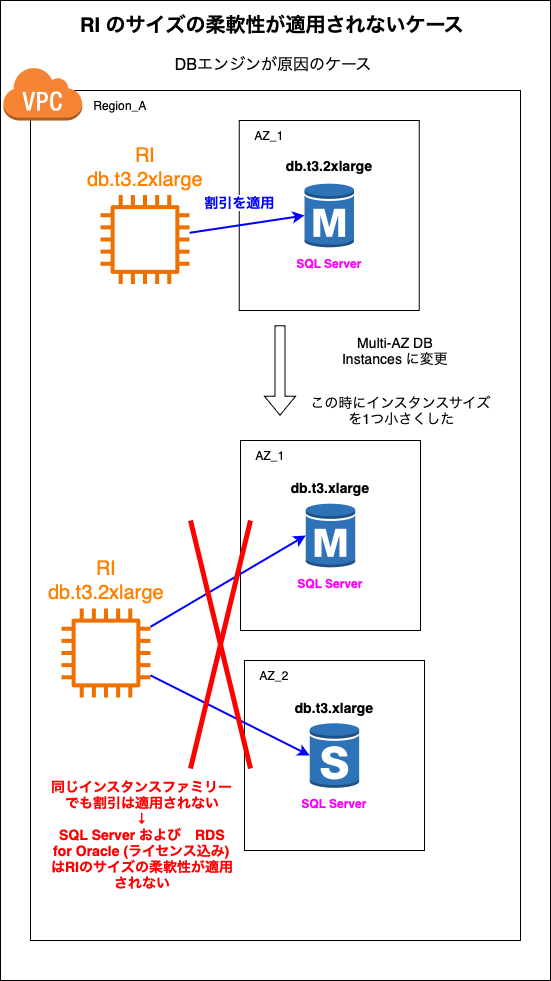
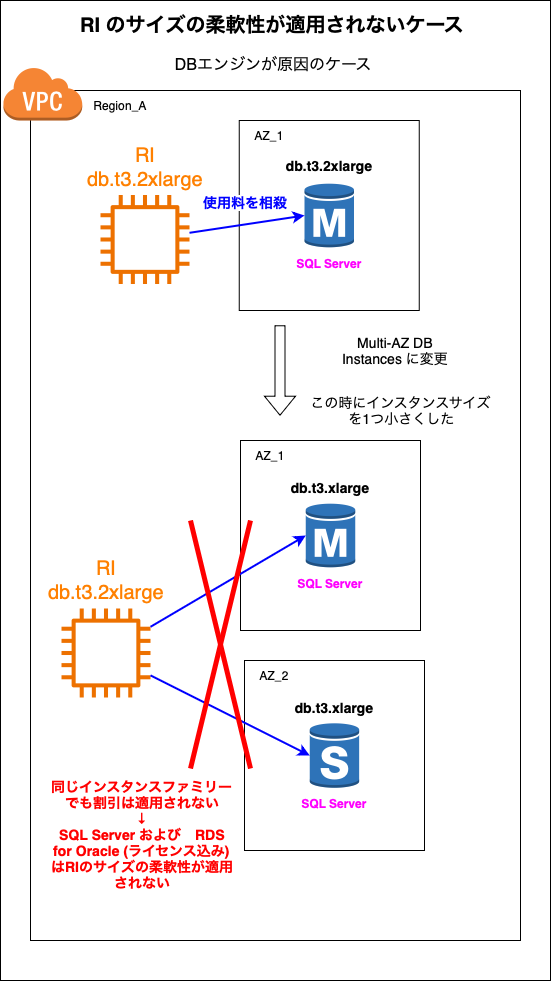
Add note about RI for Aurora RDS

diff --git a/RDS.md b/RDS.md
@@ -191,6 +191,7 @@ RDS インスタンス作成後にインスタンスが配置された AZ を確
 #### 非 Aurora RI
 
 - 指定する項目
+
     <img src="./img/RDS-RI_1.png" />
 
     - DBエンジン
@@ -224,14 +225,47 @@ RDS インスタンス作成後にインスタンスが配置された AZ を確
 
 <br>
 
+- ★ RDS の構成が [Multi-AZ DB Instances](#multi-az-db-instances) や [Multi-AZ DB Cluster](#multi-az-db-cluster) の場合はどのように RI を購入すれば良いか?
+
+    - 基本的にはどちらの構成でも、 RDS インスタンスの同じ数だけ シングル AZ RI を購入すれば良い
+
+    - マルチ AZ RI は 指定したインスタンスクラスを2つ (プライマリとスタンバイ分) 購入するオプションと思えば良い
+
+<br>
+
 - ★ 購入したRI の DB エンジンが 「RDS for SQL Server」 または 「RDS for Oracle ライセンス込み」 の場合は、**RI のサイズの柔軟性は提供されない**
 
-    → サイズの柔軟性とは、[EC2 のリージョンを指定して購入する RI](./EC2_RI.md#インスタンスサイズの柔軟性) と同様に、リージョンとインスタンスファミリーが同じであれば、購入済みの RI とは異なるサイズのインスタンスに割引が自動で適用される仕組み
+    → サイズの柔軟性とは、[EC2 のリージョンを指定して購入する RI](./EC2_RI.md#インスタンスサイズの柔軟性) と同様に、リージョンとインスタンスファミリーが同じであれば、購入済みの RI とは異なるサイズのインスタンスに割引が自動で適用される仕組み (**柔軟性は小さいインスタンスクラスのインスタンスから適用される**)
+    
+
+<br>
+
+#### Aurora RI
+
+- 基本的に非 Aurora RI と同じ指定項目、RIの柔軟性が提供される
+
+- ★ Serverless の RI は無い
+
+- ★ 料金体系によって購入するべき RI の数に違いが出る
+
+    - [Aurora I/O 最適化](./RDS_Aurora.md#2つの料金体系) の場合、インスタンス使用料が 1.3 倍に増加するので、購入する RI の数も1.3倍必要になる
+
+    - RI は少数を含んだ個数の購入 (0.5個や1.5個など) はできない 
+
+<br>
+
+#### 練習問題
+
+1. SQL Server インスタンスに対して RI の購入のケース
 
     ```
-    例: インスタンスタイプが db.t3.2xarge で シングル AZ の SQL Server の RI を購入。その後、SQL Server の RDS インスタンスをdb.t3.large でマルチ AZ 配置に変更した。
+    SQL Server RDS を db.t3.2xarge で作成し、インスタンスタイプが db.t3.2xarge で シングル AZ の SQL Server の RI を購入。その後、SQL Server の RDS インスタンスをdb.t3.large でマルチ AZ 配置に変更した。
+
+    ---------------------------
 
     Q: 変更後も RI の割引は適用されるか?
+
+    ---------------------------
 
     A: SQL Server の RI はサイズの柔軟性が無いため、SQL Server の RDS インスタンスサイズを変更すると、RI の割引は適用されなくなる
     ```
@@ -240,19 +274,153 @@ RDS インスタンス作成後にインスタンスが配置された AZ を確
 
 <br>
 
-#### Aurora RI
+2. Multi-AZ DB Instances 構成の MySQL インスタンスに対して RI の購入ケース
 
-- 基本的に非 Aurora RI と同じ指定項目、インスタンスサイズの柔軟性、AZの柔軟性が提供される
+    ```
+    MySQL RDS インスタンスを以下のマルチ DB インスタンス構成で作成した
+    - プライマリ: db.r3.large
+    - リードレプリカ: db.r3.large
 
-- ★ Serverless の RI は無い
+    ---------------------------
 
-- ★ 料金体系による RI の購入数の違い
+    Q: どのように RI を購入すれば良いか?
 
+    ---------------------------
+
+    A1: シングル AZ の db.r3.large RI を2つ購入する
+
+    ---------------------------
+
+    A2: マルチ AZ の db.r3.large RI を1つ購入する
+    ```
+
+    <img src="./img/RDS-RI_3.png" />
+
+<br>
+
+3. Multi-DB Cluster 構成の PostgreSQL  インスタンスに対しての RI の購入ケース
+
+    ```
+    MySQL RDS インスタンスを以下のマルチ DB クラスター構成で作成した
+    - プライマリ: db.r6g.4xlarge
+    - リードレプリカ1: db.r6g.4xlarge
+    - リードレプリカ2: db.r6g.4xlarge
+
+    ---------------------------
+
+    Q: どのように RI を購入すれば良いか?
+
+    ---------------------------
+
+    A1: シングル AZ の db.r6g.4xlarge RI を3つ購入する
+
+    ---------------------------
+
+    A2: マルチ AZ の db.r6g.4xlarge RI を1つ購入 & シングルAZ の db.r6g.4xlarge RI を1つ購入する
+    ```
+
+    <img src="./img/RDS-RI_4.png" />
+
+<br>
+
+4. Aurora Standard で作成した Aurora クラスターに対する RI の購入ケース
+
+    ```
+    Aurora MySQL クラスターを以下の構成で構成した
+    - プライマリ: db.r5.large
+    - リードレプリカ1: db.r5.large
+    - リードレプリカ2: db.r5.large
+
+    ---------------------------
+
+    Q: どのように RI を購入すれば良いか?
+
+    ---------------------------
+
+    A1: シングル AZ の db.r5.large RI を3つ購入する
+
+    ---------------------------
+
+    A2: マルチ AZ の db.r6g.4xlarge RI を1つ購入 & シングルAZ の db.r6g.4xlarge RI を1つ購入する
+    ```
+
+    <img src="./img/RDS-RI_5.png" />
+
+<br>
+
+5. Aurora I/O 最適化で作成した Aurora クラスターに対する RI の購入ケース1
+
+    
+    ```
+    Aurora I/O 最適化で Aurora PostgreSQL クラスターを以下の構成で構成した
+    - プライマリ: db.r6g.large
+    - 9台のリードレプリカ: db.r6g.large
+
+    ---------------------------
+
+    Q: どのように RI を購入すれば良いか?
+
+    ---------------------------
+
+    A1: シングルAZ の db.r6g.large RI を 10 * 1.3 = 13台購入する必要がある
+
+    ---------------------------
+
+    A2: マルチAZ の db.r6g.large を4 * 1.3 = 5.2台 + シングルAZ の db.r6g.large を 2 * 1.3 = 2.6台購入
+
+    →シングルAZ の db.r6g.large RI を13台購入する場合と同じ結果になる
+    ```
+
+    <img src="./img/RDS-RI_6.png" />
+
+<br>
+
+6. Aurora I/O 最適化で作成した Aurora クラスターに対する RI の購入ケース2
+
+    ```
+    Aurora I/O 最適化で Aurora PostgreSQL クラスターを以下の構成で構成した
+    - プライマリ: db.r6g.large
+    - 2台のリードレプリカ: db.r6g.large
+
+    ---------------------------
+
+    Q: どのように RI を購入すれば良いか?
+
+    ---------------------------
+
+    A1: シングルAZ の db.r6g.large RI を 3 × 1.3 = 3.9台
+
+    → ★ 3つの db.r6g.large RI を購入 + 0.9台の db.r6g.large のフットプリントをカバーできるような同じインスタンスファミリーのRIを購入すれば良い
+
+        → 0.9台の db.r6g.large フットプリントは 0.9 (台) × 4 (db.r6g.largeのフットプリント) = 3.2
+
+        以下の RI の購入でフットプリント14をカバーすることができる
+        - 1つの db.r6g.medium RI (フットプリント2)
+        - 1つの db.r6g.small RI (フットプリント1)
+
+    残り0.2台分は db.r6g.large オンデマンド料金が請求される
+
+    ---------------------------
+
+    A2: マルチAZ の db.r6g.large RI を 1.3つ + シングルAZ の db.r6g.large RI を 1.3つ
+
+    →結果はシングルAZ の db.r6g.large RI を 3.9つ購入した場合と同じ
+    ```
+
+    <img src="./img/RDS-RI_7.png" />
 
 <br>
 <br>
 
 参考サイト
 
-[]()
-[]()
+非 Aurora RDS の RI について
+- [Amazon RDS 向けリザーブド DB インスタンス](https://docs.aws.amazon.com/ja_jp/AmazonRDS/latest/UserGuide/USER_WorkingWithReservedDBInstances.html)
+
+Aurora RDS の RI について
+- [Amazon Aurora 向けリザーブド DB インスタンス](https://docs.aws.amazon.com/ja_jp/AmazonRDS/latest/AuroraUserGuide/USER_WorkingWithReservedDBInstances.html)
+
+Aurora I/O 最適化 料金プランでの RI について
+- [Amazon Aurora I/O-Optimized で Aurora のコスト最適化を実際に行った結果](https://blog.serverworks.co.jp/results-of-actual-cost-optimization-for-amazon-aurora-with-io-optimized)
+
+- [Aurora I/O 最適化での Aurora Standard リザーブドインスタンスの使用例](Examples_of_using_Aurora_Standard_Reserved_Instances_with_Aurora_I.2FO-Optimized)
